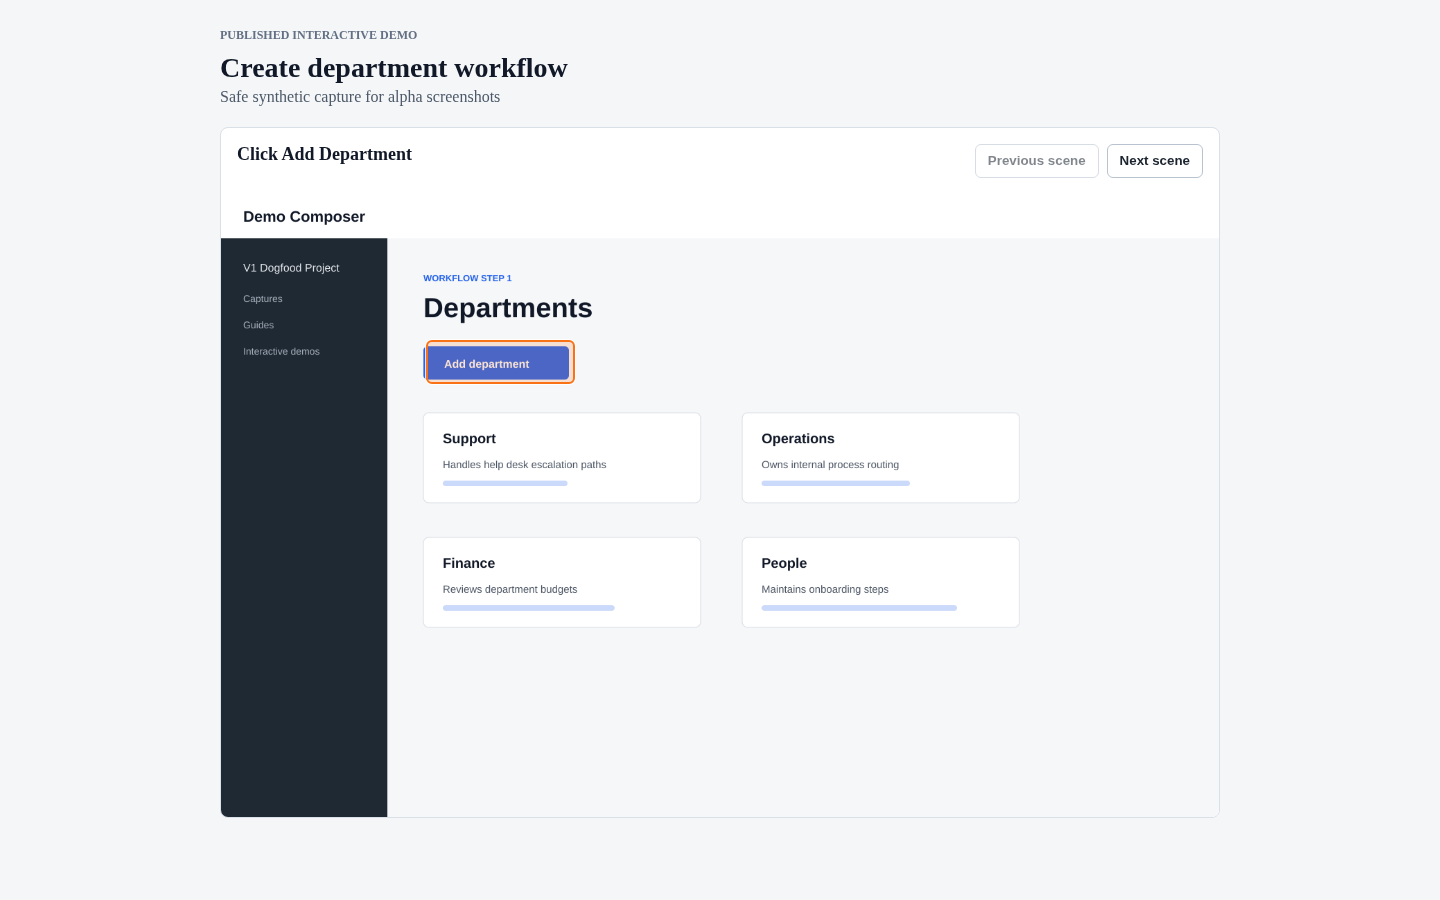
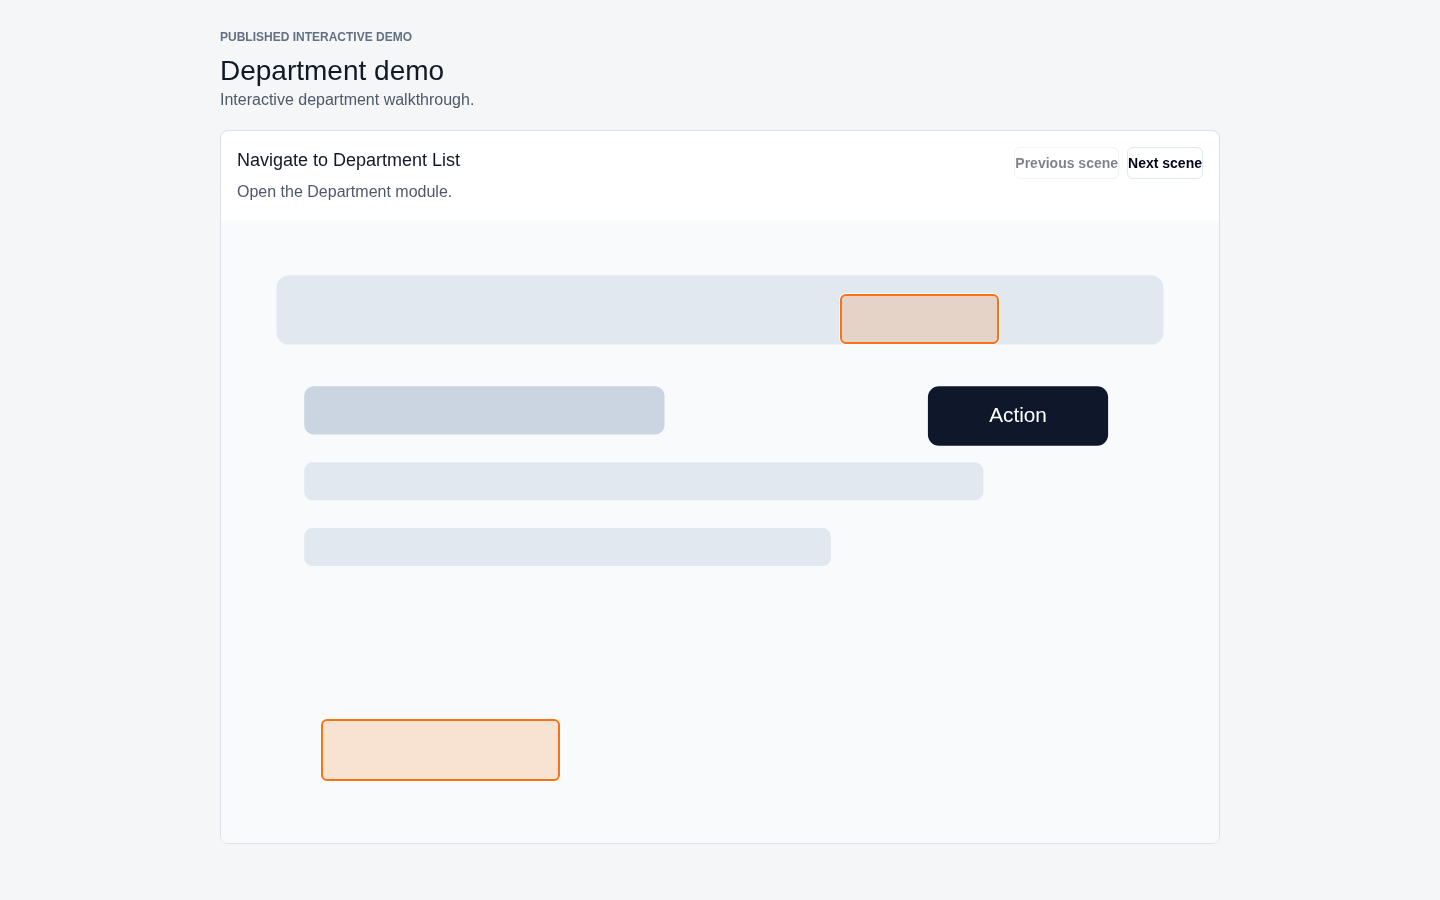
docs: refresh modern UI screenshots

Changed region(s): [[0.1562, 0.1556, 0.7812, 0.9333], [0.1562, 0.0311, 0.4062, 0.1244], [0.6875, 0.1556, 0.8438, 0.1867]]

diff --git a/docs/plan/086-modern-ui-migration.md b/docs/plan/086-modern-ui-migration.md
@@ -290,19 +290,19 @@ Carry-forward handling in this plan:
 
 ## Completion Checklist
 
-- [ ] Plan created in `docs/plan` with the next correct number.
-- [ ] Plan rechecked before implementation.
-- [ ] Official docs researched for install/config choices.
-- [ ] Tailwind/shadcn-style shared UI foundation implemented.
-- [ ] Web portal UI modernized.
-- [ ] Public guide/demo UI modernized.
-- [ ] Chrome extension popup UI modernized.
-- [ ] README and related screenshot/status docs updated with current visual evidence after browser QA.
-- [ ] Repeated manual control classes removed or documented if intentionally retained.
-- [ ] `$tdd` workflow followed for behavior-affecting slices.
-- [ ] `$agent-browser` visual QA performed and recorded.
-- [ ] Relevant tests, typechecks, lint, and builds pass or are documented with blockers.
-- [ ] Small logical commits created for coherent slices.
+- [x] Plan created in `docs/plan` with the next correct number.
+- [x] Plan rechecked before implementation.
+- [x] Official docs researched for install/config choices.
+- [x] Tailwind/shadcn-style shared UI foundation implemented.
+- [x] Web portal UI modernized.
+- [x] Public guide/demo UI modernized.
+- [x] Chrome extension popup UI modernized.
+- [x] README and related screenshot/status docs updated with current visual evidence after browser QA.
+- [x] Repeated manual control classes removed or documented if intentionally retained.
+- [x] `$tdd` workflow followed for behavior-affecting slices.
+- [x] `$agent-browser` visual QA performed and recorded.
+- [x] Relevant tests, typechecks, lint, and builds pass or are documented with blockers.
+- [x] Small logical commits created for coherent slices.
 - [ ] Final gap review completed.
 
 ## Implementation Log
@@ -335,6 +335,9 @@ Carry-forward handling in this plan:
 - 2026-06-30: Extension verification passed: pre-change and post-change `rtk pnpm --filter extension test`, targeted raw-control `rg`, `check-types`, `lint`, `build`, and `rtk git diff --check`.
 - 2026-06-30: Removed the remaining obsolete `retryButton` CSS from `CaptureSessionDetailPage`.
 - 2026-06-30: Cleanup verification passed: `rtk pnpm --filter web test -- CaptureSessionDetailPage`; repeated-class `rg` only reports intentional `formError` state naming and `styles.badges` layout container.
+- 2026-06-30: Full verification passed: `rtk pnpm check-types`, `rtk pnpm lint`, `rtk pnpm --filter @repo/ui test`, `rtk pnpm --filter web test`, `rtk pnpm --filter extension test`, and `rtk pnpm build`. Root `rtk pnpm test` is not available because the repo root has no `test` script.
+- 2026-06-30: Browser QA used `rtk agent-browser skills get core`, local web dev server at `http://localhost:3000/`, and extension dev server at `http://localhost:5173/`. Public guide/demo routes were checked with safe network fixtures at desktop `1440x900`, tablet `1024x768`, and mobile `390x844`; extension popup was checked at `360x420`.
+- 2026-06-30: Refreshed screenshots: `docs/assets/alpha/alpha-public-guide-reader.png`, `docs/assets/alpha/alpha-public-demo-viewer.png`, and `docs/assets/alpha/alpha-extension-connect.png`; updated `README.md`, `docs/project-zoomout-status.md`, `docs/oss-alpha-summary.md`, and `docs/roadmap.md`.
 
 ## Final Gap Review
 

diff --git a/README.md b/README.md
@@ -22,7 +22,7 @@ The DB-backed v1 smoke workflow now proves the main backend path from first-run 
 
 ## Alpha Screenshots
 
-These screenshots were captured from a local alpha run with safe synthetic `V1 Dogfood Project` data after the [2026-06-22 portal dogfood smoke](docs/v1-dogfood-smoke-suite.md). They show the portal and public viewer surfaces that currently have trustworthy manual evidence. Extension screenshots remain pending because the 2026-06-22 extension dogfood run is blocked by capture failures.
+These screenshots use safe synthetic data. Portal/editor screenshots come from the [2026-06-22 portal dogfood smoke](docs/v1-dogfood-smoke-suite.md). The public guide, public demo, and extension setup screenshots were refreshed on 2026-06-30 during the modern UI browser QA pass with local fixture data.
 
 | Project and capture | Guide authoring |
 | --- | --- |
@@ -32,6 +32,10 @@ These screenshots were captured from a local alpha run with safe synthetic `V1 D
 | Interactive demo editor | Public demo viewer |
 | --- | --- |
 | ![Interactive demo editor with scenes, hotspot controls, and publishing controls](docs/assets/alpha/alpha-demo-editor.png) | ![Published public interactive demo viewer with a highlighted hotspot](docs/assets/alpha/alpha-public-demo-viewer.png) |
+
+| Chrome extension setup |
+| --- |
+| ![Chrome extension popup connect instance screen](docs/assets/alpha/alpha-extension-connect.png) |
 
 ## Product Shape
 
@@ -58,7 +62,7 @@ The product intentionally keeps guides and interactive demos separate. A capture
 - Local file storage is the only storage provider.
 - Rate limiting is in-memory and should be replaced before multi-instance production deployments.
 - Operators are responsible for database and local file storage backup/restore.
-- Extension screenshots are still pending until extension dogfood has a passing or explicitly bounded capture path.
+- Extension capture dogfood is still blocked, so captured-workflow extension screenshots remain pending; the setup popup screenshot is current.
 
 ## Quick Local Path
 

diff --git a/docs/oss-alpha-summary.md b/docs/oss-alpha-summary.md
@@ -27,7 +27,7 @@ Workflow captures often contain internal product screens, operational processes,
 - manual portal capture and screenshot upload
 - guide generation, editing, preview, publishing, password access, embeds, Markdown export, and HTML ZIP export
 - interactive demo generation, editing, hotspots, publishing, password access, embeds, and public viewer
-- README portal screenshots from safe synthetic dogfood data
+- README screenshots from safe synthetic dogfood and modern UI browser-fixture data
 - compact `apps/docs` alpha docs hub linking to source markdown docs and safe screenshot evidence
 - organization invites
 - production config hardening basics
@@ -37,7 +37,7 @@ Workflow captures often contain internal product screens, operational processes,
 
 - alpha quality
 - manual Chrome extension dogfood is blocked by capture and split-origin portal link failures
-- extension screenshots remain pending until extension capture has a passing or explicitly bounded path
+- captured-workflow extension screenshots remain pending until extension capture has a passing or explicitly bounded path
 - no HTML replay
 - no analytics or lead capture
 - no custom branding

diff --git a/docs/project-zoomout-status.md b/docs/project-zoomout-status.md
@@ -41,7 +41,7 @@ The automated DB-backed smoke test for that workflow lives in `apps/server/src/s
 rtk pnpm --filter server test:smoke
 ```
 
-Manual portal dogfood smoke completed with non-blocking limitations on 2026-06-22 and is recorded in `docs/v1-dogfood-smoke-suite.md`. Portal alpha screenshots from safe synthetic data are now committed under `docs/assets/alpha/` and linked from `README.md`. Chrome extension dogfood smoke ran on 2026-06-22 and is currently blocked by capture failures, so extension screenshots remain pending.
+Manual portal dogfood smoke completed with non-blocking limitations on 2026-06-22 and is recorded in `docs/v1-dogfood-smoke-suite.md`. Portal alpha screenshots from safe synthetic data are committed under `docs/assets/alpha/` and linked from `README.md`. Public guide/demo screenshots and the extension setup popup screenshot were refreshed on 2026-06-30 during the modern UI browser QA pass. Chrome extension capture dogfood remains blocked by capture failures, so captured-workflow extension screenshots remain pending.
 
 ## Built So Far
 
@@ -105,7 +105,7 @@ Manual portal dogfood smoke completed with non-blocking limitations on 2026-06-2
 
 - Manual portal dogfood found non-blocking guide editor and local dev URL friction that should feed the next hardening phases.
 - Manual Chrome extension dogfood smoke is blocked by automatic capture and manual fallback failures.
-- Extension screenshots are pending until extension dogfood has a passing or explicitly bounded capture path.
+- Captured-workflow extension screenshots are pending until extension dogfood has a passing or explicitly bounded capture path.
 - HTML capture/replay is deferred.
 - AI/BYO-key authoring is deferred.
 - Analytics, lead capture, sales tracking, and custom branding are deferred.

diff --git a/docs/roadmap.md b/docs/roadmap.md
@@ -25,7 +25,7 @@ Demo Composer is alpha software. This roadmap describes product direction, not a
 
 - Address manual portal dogfood findings from the 2026-06-22 smoke run.
 - Address manual Chrome extension dogfood failures from the 2026-06-22 smoke run.
-- Keep alpha screenshots current as portal/editor hardening changes the UI.
+- Keep alpha screenshots current as portal/editor/extension UI hardening changes the product.
 - Improve guide editor ergonomics for repeated authoring.
 - Improve interactive demo editor usability and hotspot positioning polish.
 - Improve extension reliability around tab permissions, page changes, and capture failures.